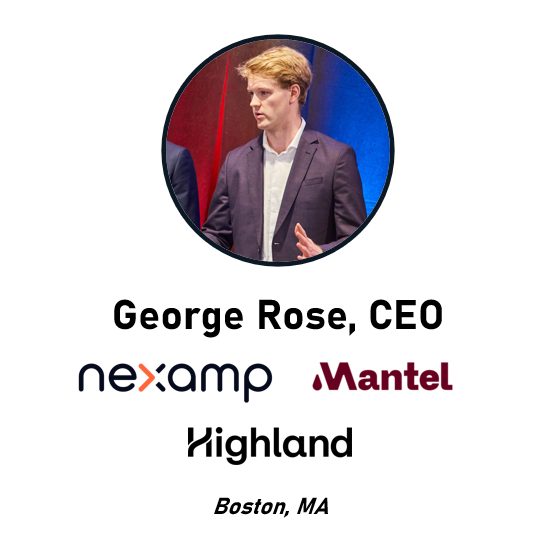
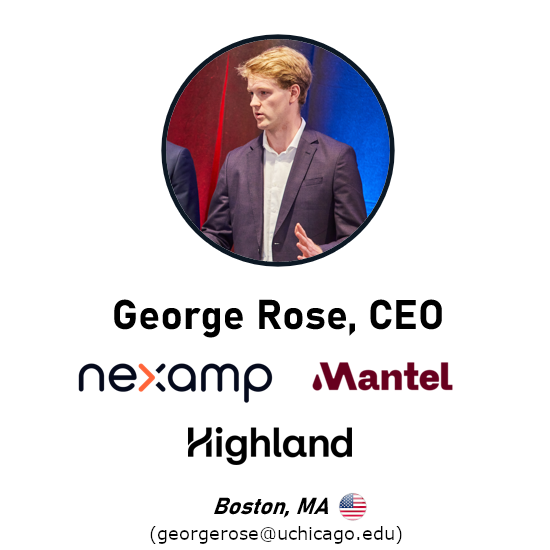
team update

Changed region(s): [[0.2473, 0.8964, 0.7418, 0.9891]]

diff --git a/indexstyle.css b/indexstyle.css
@@ -186,7 +186,7 @@
     width: clamp(30vw, 40vw, 30vw);
     max-width: 30vw;
     min-width:30vw;
-    background-color:rgb(192, 192, 192);
+    background-color:rgb(228, 222, 222);
     border-radius: 25px;
     border: 2px solid #BB923B;
 }
@@ -286,7 +286,7 @@
     display: flex;
     flex-direction: column;
     justify-content: center;
-    background-color: rgb(192, 192, 192);
+    background-color: rgb(228, 222, 222);
     border-radius: 15px;
     box-shadow: 0 4px 10px rgba(0, 0, 0, 0.5);
     border: 2px solid #BB923B;

diff --git a/team.html b/team.html
@@ -49,6 +49,10 @@
         </div>
     </section>
 
+    <!--<p id="emails", class="hidden">
+        (georgerose@uchicago.edu, lucaszubi@uchicago.edu, jvanoord@uchicago.edu)
+    </p>-->
+
     <section id="team-see-advisors" class="hidden">
         <div>
             <img src="images/grey-arrow_processed.png" alt="Small Image">

diff --git a/teamstyle.css b/teamstyle.css
@@ -108,3 +108,10 @@
 #team-advisors img:hover {
     scale: 1.05;
 }
+
+#emails {
+    text-align: center;
+    justify-content:center;
+    align-items: center;
+    align-content: center;
+}
